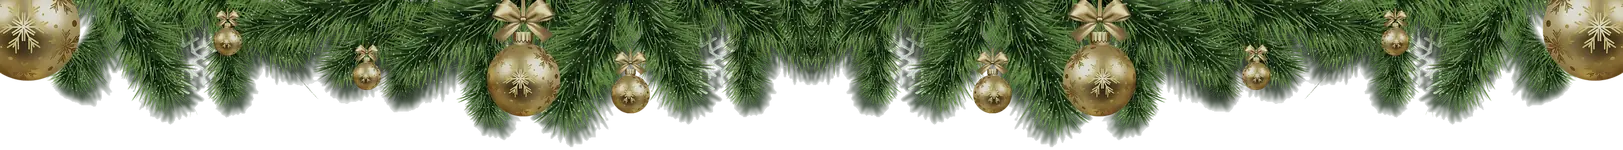
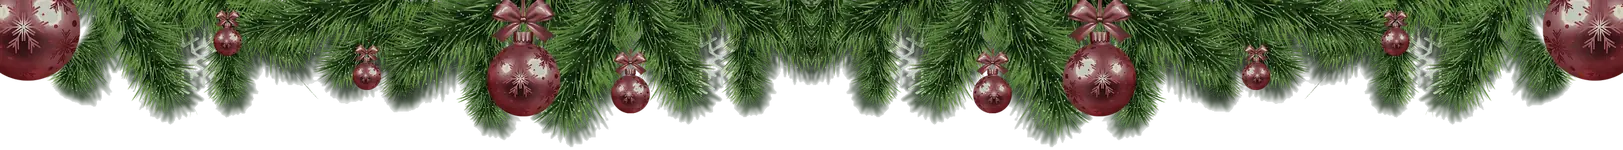
Put the garland's baubles in the header's own red
The stock garland came with gold baubles and white snowflake decals stuck
on the branches. Gold was the only colour in the header that belonged to
nothing else on the page, and the decals read as printed stickers rather
than as part of the greenery, which is what made the whole strip look
bought rather than dressed.

The baubles now sit on the same deep red as the announcement bar directly
above them, the decals are softened back into the foliage, and the strip
as a whole is quieter in saturation and brightness so it supports the bar
instead of competing with it.

scripts/build-christmas-garland.py is the recipe that produces the file
from the Pixabay original, kept in the repo so the colour, the crop or the
height can be re-tuned later without working any of it out again.

diff --git a/app/globals.css b/app/globals.css
@@ -457,10 +457,18 @@ textarea:focus-visible,
    The artwork is `public/christmas/garland-tile.webp`, from Pixabay (author
    Alexey_Hulsov, pixabay.com/illustrations/new-year-christmas-decoration-1911483/)
    under the Pixabay Content License: free for commercial use, no attribution
-   required. It is cropped to the upper band, toned down from the original's
-   bright green so it sits with this site's palette, and mirror-paired — the
-   file is the strip followed by its own reflection, so `repeat-x` joins it to
-   itself at a reflection every time and never shows a seam, at any width.
+   required. `scripts/build-christmas-garland.py` is the exact recipe that turns
+   that download into this file, so it can be re-tuned without guesswork: crop
+   to the upper band; move the original's gold baubles onto the deep red the
+   announcement bar already uses, since gold was the one colour in the header
+   that belonged to nothing else; soften the stuck-on white snowflake decals,
+   which read as printed stickers rather than as part of the greenery; then
+   take the whole thing down in saturation and brightness so it sits with the
+   rest of the palette instead of shouting over it.
+
+   The file is mirror-paired — the strip followed by its own reflection — so
+   `repeat-x` joins it to itself at a reflection every time and never shows a
+   seam, at any width.
 
    A background image rather than an <img> or an SVG component: it needs no
    markup, no measuring and no JavaScript, so it costs nothing on any page it

diff --git a/scripts/build-christmas-garland.py b/scripts/build-christmas-garland.py
@@ -1,0 +1,48 @@
+"""Turn the Pixabay source into the header garland this site ships.
+
+Source: pixabay.com/illustrations/new-year-christmas-decoration-1911483/
+(Alexey_Hulsov, Pixabay Content License — commercial use, no attribution).
+Kept here so the asset can be rebuilt or re-tuned without guesswork.
+"""
+import sys, colorsys
+from PIL import Image, ImageEnhance
+
+# Only the upper band is a hanging garland; the lower one is a plain hedge.
+# 1163 trims the right edge back to a stretch of plain foliage (measured: no
+# baubles between columns 1125 and 1201) so the mirror join lands in needles.
+im = Image.open(sys.argv[1]).convert("RGBA").crop((0, 0, 1163, 215))
+
+px = im.load()
+for y in range(im.height):
+    for x in range(im.width):
+        r, g, b, a = px[x, y]
+        if a < 20:
+            continue
+        hh, ss, vv = colorsys.rgb_to_hsv(r / 255, g / 255, b / 255)
+        if 0.055 <= hh <= 0.17 and ss > 0.25:
+            # The original's gold baubles, swung to the shop's deep red.
+            # Foliage sits at hue 0.22-0.45 and is left alone.
+            nr, ng, nb = colorsys.hsv_to_rgb(0.988, min(1.0, ss * 0.92), vv * 0.86)
+            px[x, y] = (int(nr * 255), int(ng * 255), int(nb * 255), a)
+        elif ss < 0.17 and vv > 0.72:
+            # Stuck-on white snowflake decals, pulled down towards the
+            # foliage so they read as frost rather than as stickers.
+            k = 0.62
+            px[x, y] = (int(r * 0.38 + 206 * k), int(g * 0.38 + 214 * k), int(b * 0.38 + 198 * k), a)
+
+r, g, b, a = im.split()
+rgb = ImageEnhance.Brightness(ImageEnhance.Color(Image.merge("RGB", (r, g, b))).enhance(0.66)).enhance(0.87)
+# The source carries coloured compression junk in near-transparent pixels,
+# invisible on white but not over a photograph. Clear anything barely there.
+im = Image.merge("RGBA", (*rgb.split(), a.point(lambda v: 0 if v < 30 else v)))
+
+# Mirror-pair it: `repeat-x` then joins the strip to its own reflection at
+# every boundary, which always meets exactly, so there is never a seam.
+tile = Image.new("RGBA", (im.width * 2, im.height), (0, 0, 0, 0))
+tile.paste(im, (0, 0))
+tile.paste(im.transpose(Image.FLIP_LEFT_RIGHT), (im.width, 0))
+
+H = 150  # shown at 75px, so this is exactly 2x for a retina screen
+tile = tile.resize((round(tile.width * H / tile.height), H), Image.LANCZOS)
+tile.save(sys.argv[2], "WEBP", quality=72, method=6)
+print(tile.size)

diff --git a/public/christmas/NEEDED.md b/public/christmas/NEEDED.md
@@ -91,9 +91,12 @@ wrong, just quieter.
   illustration by Alexey_Hulsov on Pixabay
   (pixabay.com/illustrations/new-year-christmas-decoration-1911483/) under the
   **Pixabay Content License** — free for commercial use, no attribution
-  required, no payment. I cropped it to the upper band, toned the original's
-  bright green down to sit with our palette, and mirrored it so it repeats
-  across any screen width without a seam.
+  required, no payment. I cropped it to the upper band, changed its gold
+  baubles to the same deep red as the announcement bar, took off the white
+  snowflake stickers that were stuck on the branches, quietened the whole
+  thing down to sit with our palette, and mirrored it so it repeats across any
+  screen width without a seam. `scripts/build-christmas-garland.py` is the
+  recipe, so any of that can be re-tuned later.
 
   If you would rather have a nicer one, this is a single file to replace:
   anything roughly 1600 x 150, transparent background, garland flush to the
